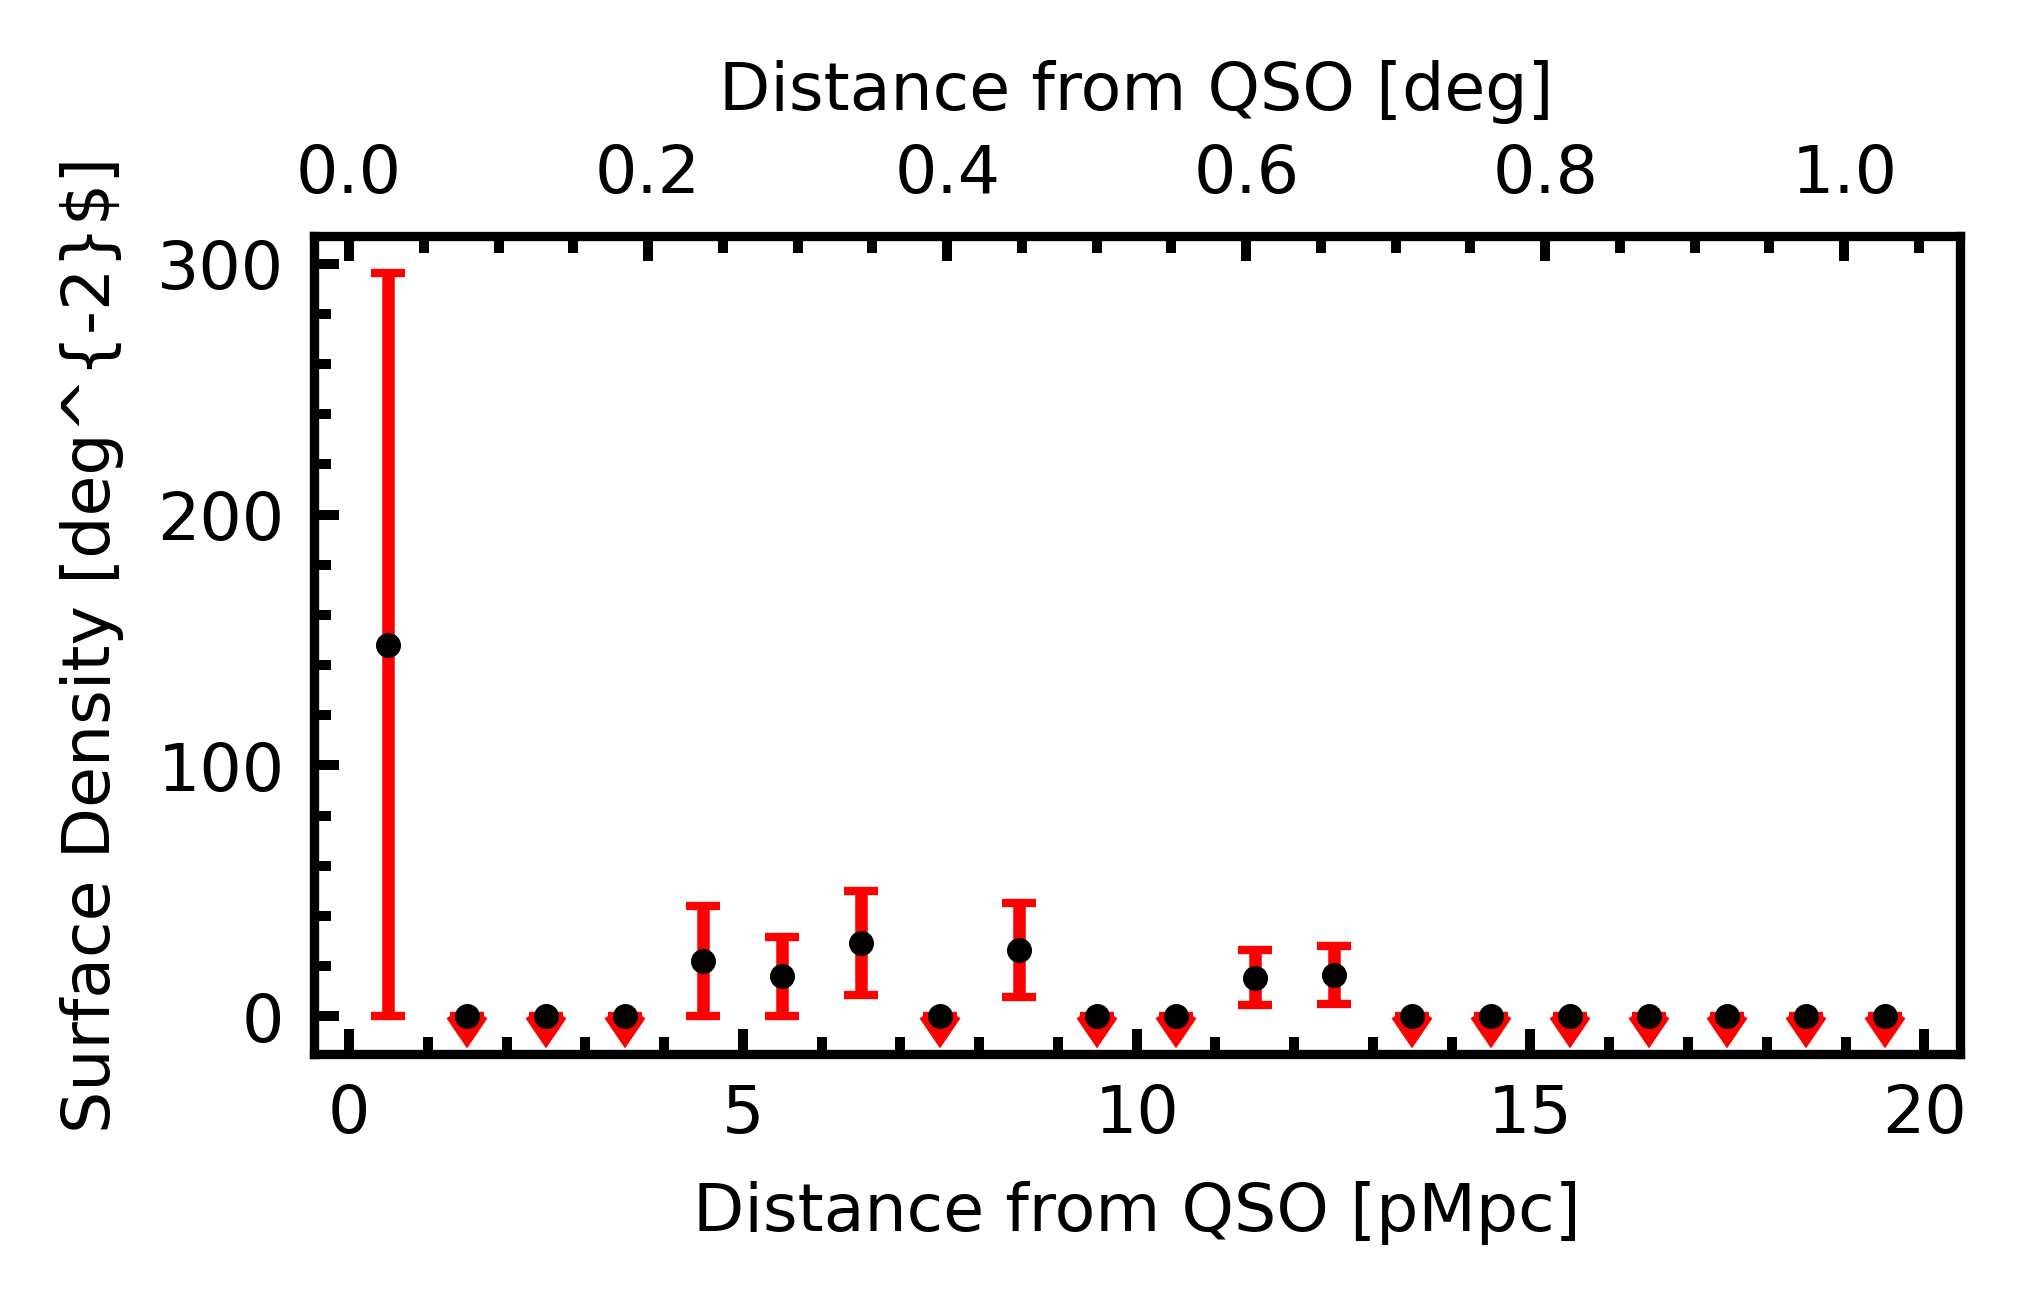
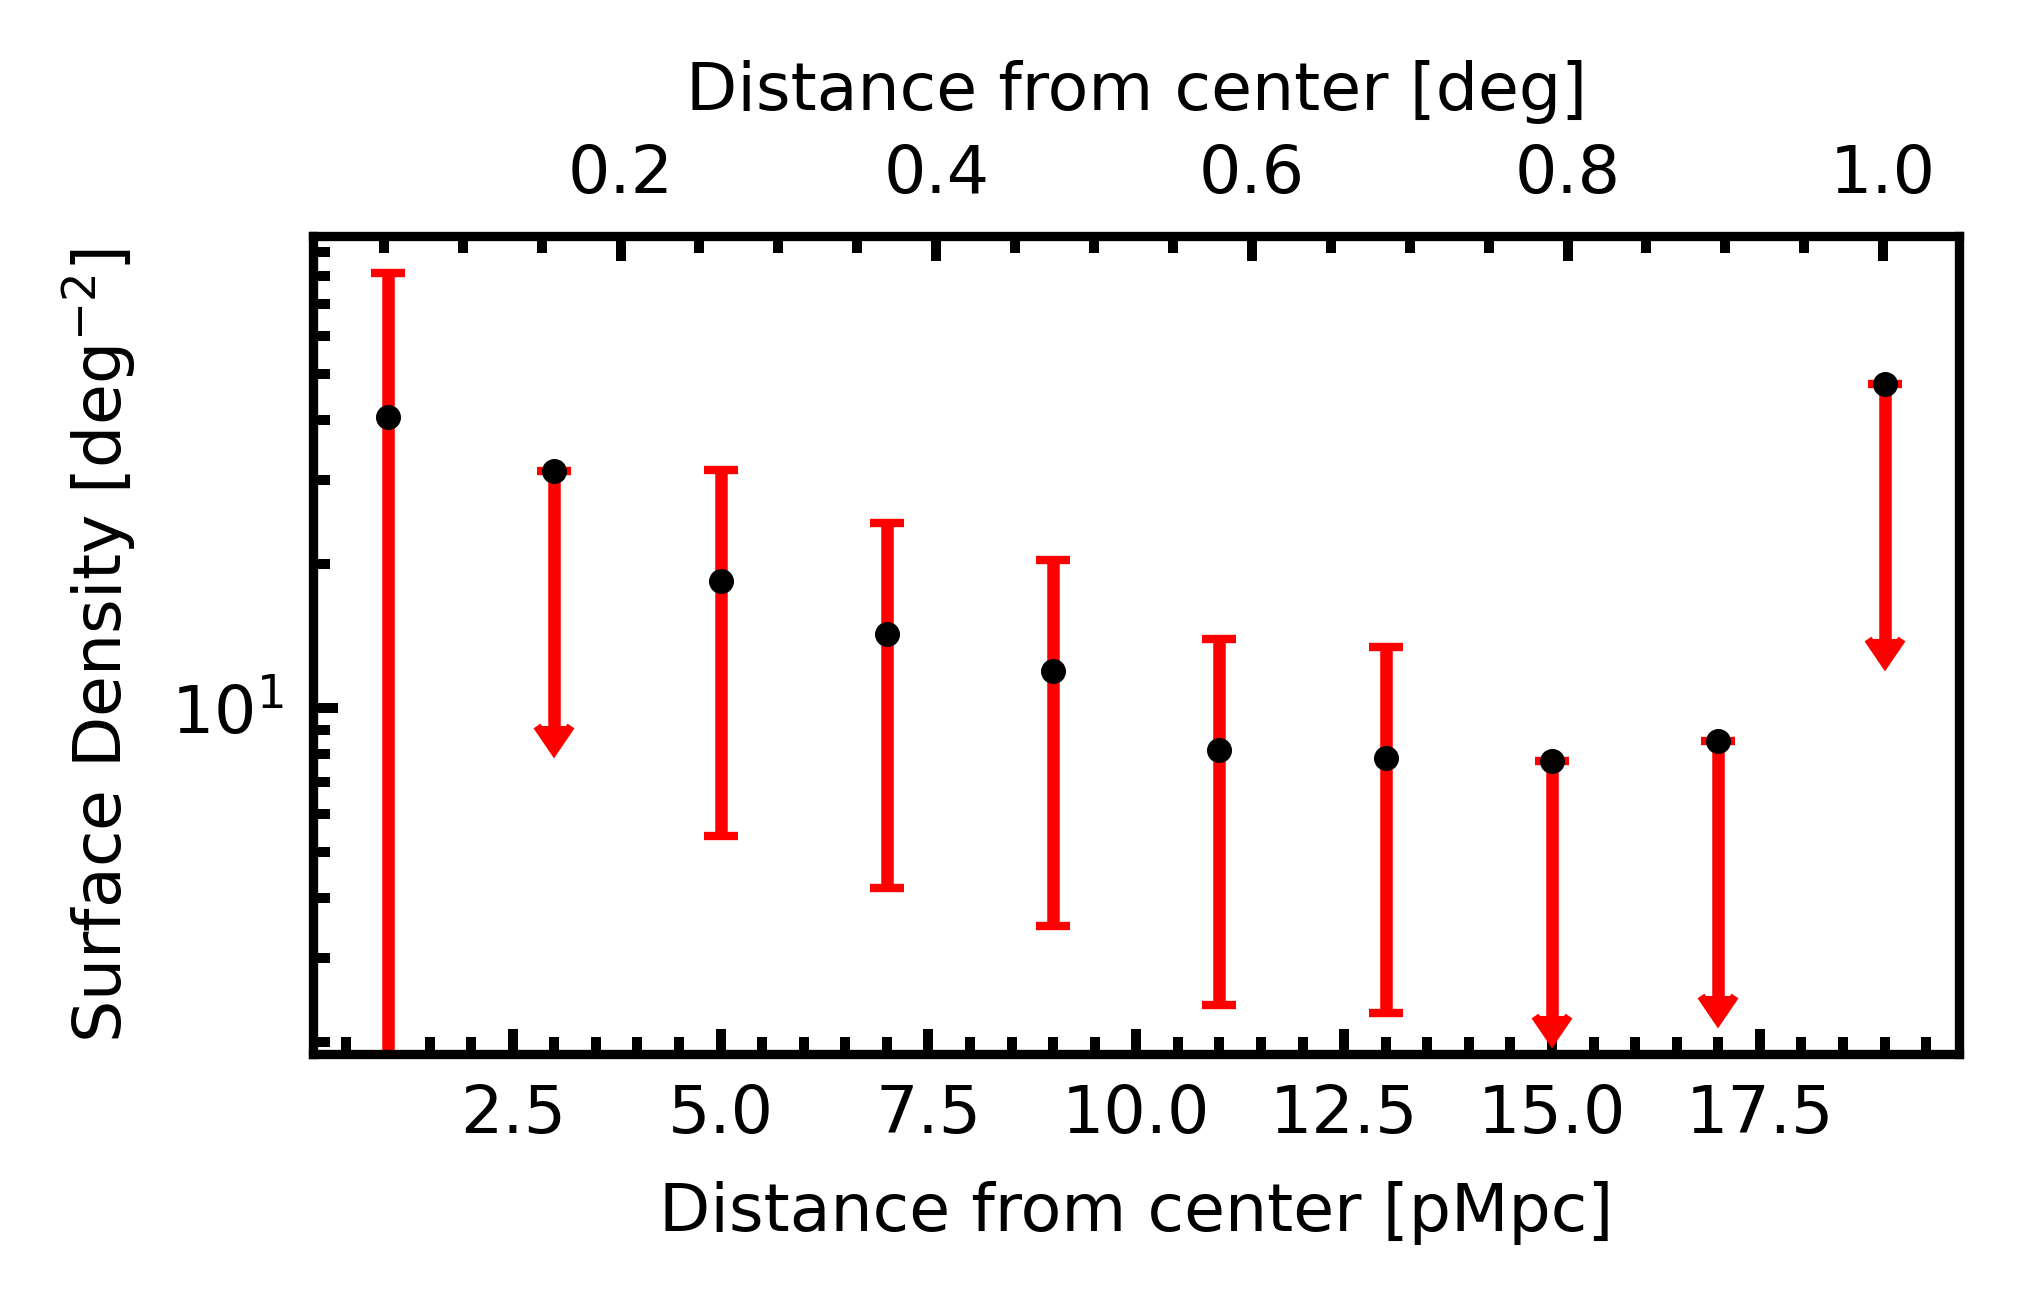
Updating radial distribution and adding ratio uncertainties.

diff --git a/plot_cumulative_eduardo.py b/plot_cumulative_eduardo.py
@@ -45,27 +45,47 @@ ARCSEC_PER_KPC = COSMO.arcsec_per_kpc_comoving(REDSHIFT_QSO)
 DEG_PER_MPC = ARCSEC_PER_KPC.to(u.deg / u.Mpc)
 inner_region_distance = DEG_PER_MPC * 75 * u.Mpc
 results = distances_to_quasar < inner_region_distance
-inner = len(np.where(results ==True)[0])
+inner = len(np.where(results == True)[0])
 outer = len(np.where(results == False)[0])
 inner_area = (inner_region_distance.to(u.arcsec) **2) * np.pi
-outer_area = 23212237.94301176
+outer_area = 27036703.3248 #from functions in plot_radial_distribution
 
 
+#Error propagation
+def propagate_ratio(numerator: float, denominator: float, u_numerator: float, u_denominator: float) -> float:
+    """Propagates the uncertainty based on the numerator and denominator uncertainties"""
+    ratio = numerator/denominator
+    uncertainty = ratio * np.hypot(u_numerator/numerator, u_denominator/denominator)
+    return ratio, uncertainty
 
+cdfs_density =  len(ra_cdfs)/CDFS_AREA
+our_density = len(ra_us)/DECAM_AREA
+cdfs_uncertainty = np.sqrt(len(ra_cdfs))/CDFS_AREA
+our_uncertainty = np.sqrt(len(ra_us))/DECAM_AREA
+inner_density = (inner/inner_area.value)
+outer_density  = (outer/23212237.94301176)
+inner_uncertainty = np.sqrt(inner)/inner_area.value
+outer_uncertainty = np.sqrt(outer)/23212237.94301176
+inner_ratio = propagate_ratio(inner_density, cdfs_density, inner_uncertainty, cdfs_uncertainty)
+outer_ratio = propagate_ratio(outer_density, cdfs_density, outer_uncertainty, cdfs_uncertainty)
+ratio, uncertainty = propagate_ratio(our_density, cdfs_density, our_uncertainty, cdfs_uncertainty)
+main_result_ratio = propagate_ratio(outer_density, inner_density, outer_uncertainty, inner_uncertainty)
 
 #Printing values
-print('CDFS density [arcseconds ^{-2}]: ', len(ra_cdfs)/CDFS_AREA)
-print('our density [arcseconds ^{-2})]: ', len(ra_us)/DECAM_AREA)
-print('Ratio: ', (len(ra_us)/DECAM_AREA)/(len(ra_cdfs)/CDFS_AREA))
+print('CDFS density [arcseconds ^{-2}]: ', cdfs_density, '+-', cdfs_uncertainty)
+print('our density [arcseconds ^{-2})]: ', our_density, '+-', our_uncertainty)
+print('Ratio: ',  ratio, '+-', uncertainty)
 print('-----------------------------')
 print('Inner 75cMpc is:')
-print('Density[arcseconds ^{-2})]: ', inner/inner_area.value)
-print('Ratio: ', (inner/inner_area.value)/(len(ra_cdfs)/CDFS_AREA))
+print('Density[arcseconds ^{-2})]: ', inner_density, '+-', inner_uncertainty)
+print('Ratio: ', inner_ratio[0], '+-', inner_ratio[1])
 print('-----------------------------')
 print('Outer 75 cMpc')
-print('Density[arcseconds ^{-2})]: ', outer/23212237.94301176)
-print('Ratio: ', (outer/23212237.94301176)/(len(ra_cdfs)/CDFS_AREA))
+print('Density[arcseconds ^{-2})]: ', outer_density, '+-', outer_uncertainty)
+print('Ratio: ', outer_ratio[0], '+-', outer_ratio[1])
 print('-----------------------------')
+print('Ratio of inner density and outer density:')
+print('Ratio: ', main_result_ratio[0], '+-', main_result_ratio[1])
 
 our_cat = cross_match_to_sexcat(ra_us, dec_us, SExtractorCat(SEX_US))
 cdfs_cat = cross_match_to_sexcat(ra_cdfs, dec_cdfs, SExtractorCat(SEX_CDFS))

diff --git a/plot_radial_distribution.py b/plot_radial_distribution.py
@@ -61,7 +61,7 @@ def create_annulus_cutout(image: np.ndarray, center: tuple, inner_radius: float,
     """
     y_indicies, x_indicies = np.indices(image.shape)
 
-    distance_from_center = np.sqrt((x_indicies - center[1])**2 + (y_indicies - center[0])**2)
+    distance_from_center = np.sqrt((x_indicies - center[0])**2 + (y_indicies - center[1])**2)
 
     mask = np.logical_and(distance_from_center >= inner_radius, distance_from_center <= outer_radius)
 
@@ -86,7 +86,7 @@ def plot_radial_profile(counts: np.ndarray, areas_vals: list, distances: np.ndar
     areas = np.array([area.value for area in areas_vals])
     null_count_values = np.where(counts==0)[0]
     non_null_count_values = np.where(counts!=0)[0]
-    counts[null_count_values] = 0#2 # poisson distribution means a zero count is less than 2 counts.
+    counts[null_count_values] = 2 # poisson distribution means a zero count is less than 2 counts.
     y = counts/areas
     y_err = np.sqrt(counts)/areas
 
@@ -95,16 +95,16 @@ def plot_radial_profile(counts: np.ndarray, areas_vals: list, distances: np.ndar
     ax = fig.add_subplot(111)
     ax.errorbar(distances[non_null_count_values], y[non_null_count_values], yerr = y_err[non_null_count_values], fmt='ok', ecolor='r', ms = 2, capsize=2)
     ax.errorbar(distances[null_count_values], y[null_count_values], yerr = y_err[null_count_values], fmt='ok', ecolor='r', ms = 2, capsize=2, uplims=True)
-    ax.set_xlabel('Distance from QSO [pMpc]')
-    ax.set_ylabel(r'Surface Density [deg^{-2}$]')
+    ax.set_xlabel('Distance from center [pMpc]')
+    ax.set_ylabel(r'Surface Density [deg$^{-2}$]')
     ax.minorticks_on()
     ax.tick_params(which='both', width=1.2,direction='in')
     ax.tick_params(which='major', length=3, direction='in')
-    #ax.set_yscale('log')
+    ax.set_yscale('log')
 
     ax1 = ax.twiny()
     ax1.errorbar(separations, y, yerr=y_err, fmt='ok', alpha=0)
-    ax1.set_xlabel('Distance from QSO [deg]')
+    ax1.set_xlabel('Distance from center [deg]')
     ax1.minorticks_on()
     ax1.tick_params(which='both', width=1.2,direction='in')
     ax1.tick_params(which='major', length=3, direction='in')
@@ -124,7 +124,8 @@ if __name__ == '__main__':
     decam_center = decam.wcs.world_to_pixel_values(RA_QSO, DEC_QSO)
 
 
-    radii_mpc = np.arange(0,21,1) * u.Mpc
+    BIN_WIDTH = 2
+    radii_mpc = np.arange(0,20+BIN_WIDTH,BIN_WIDTH) * u.Mpc
     radii_deg = radii_mpc * DEG_PER_MPC
     radii_pix = radii_deg / cdfs.deg_per_pix
     average_radii_mpc = np.array([(radii_mpc[i].value + radii_mpc[i+1].value)/2 for i in range(len(radii_mpc) -1)]) * u.Mpc
